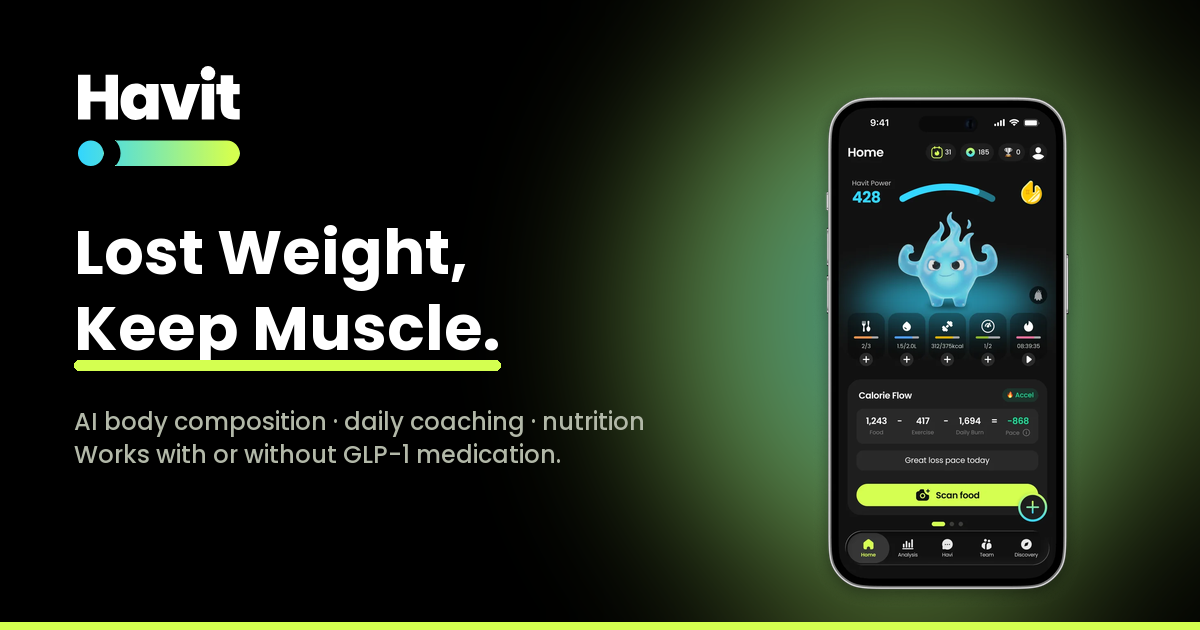
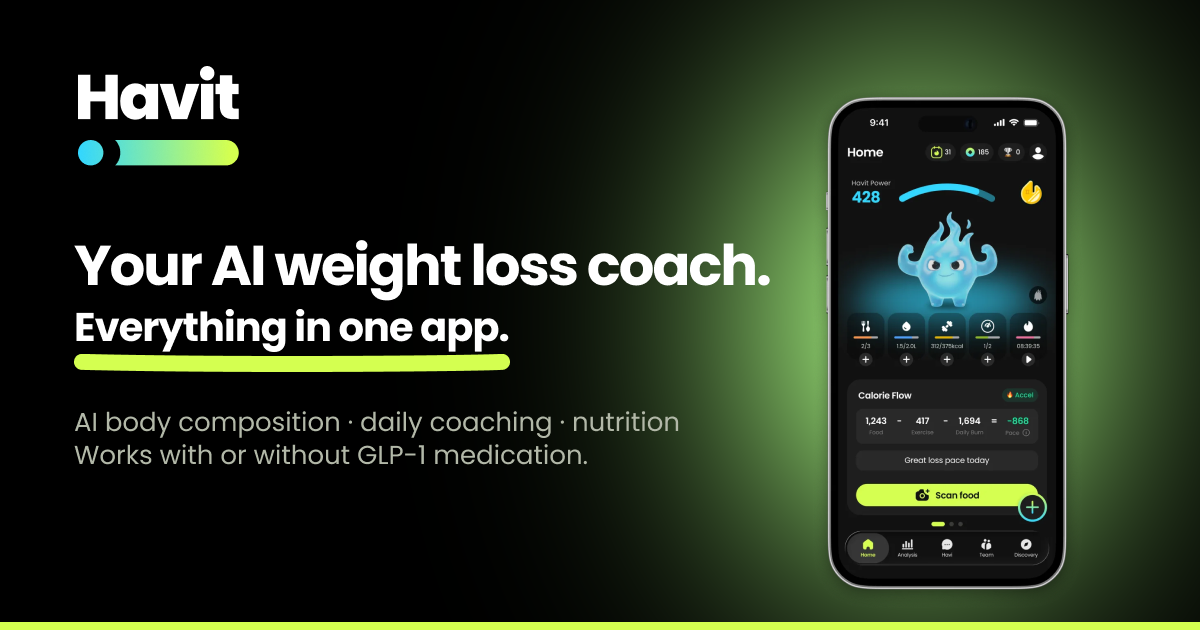
design: OG 카드·문구를 홈페이지 영문 OG 와 다시 맞춘다
이 파일의 OG 블록에는 "홈페이지 기본(영문) OG 와 같은 문구·이미지로
맞춘다" 는 계약이 주석으로 적혀 있는데, www.aihavit.com 이 V4 히어로
카피로 넘어간 뒤 이쪽만 옛 문구에 남아 있었다.

- og:image: `Lost Weight, / Keep Muscle.` 가 박힌 카드였다. www 의
  og-card.png 와 바이트 단위로 같은 파일(md5 4bf42a7738d7)이었고,
  같은 교체본으로 바꾼다. 헤드라인은 현재 히어로 H1 그대로
  `Your AI weight loss coach. / Everything in one app.` 다.
  1200×630 유지, 213KB(기존 229KB).
- og:title: `… | Lose Weight, Keep Muscle` → `… | Everything in One App`.
  www 영문 루트의 og:title 과 같은 문자열이다.
- og:description: www 영문 루트와 같은 문자열로 교체. 12주 임상
  수치(5%+ 감량 4배)가 들어간 쪽이다.

og:url·og:type·twitter:card·noindex 는 그대로다.

Figma 원본: https://www.figma.com/design/q2lX8odHZwFTyjq8RgV6hL

Claude-Session: https://claude.ai/code/session_01JXrpq3yntNPLzSbVSoMi36

diff --git a/index.html b/index.html
@@ -18,8 +18,8 @@
     (GitHub Pages 정적 호스팅 + 크롤러는 언어 헤더를 거의 안 보낸다). 홈페이지 기본(영문)
     OG 와 같은 문구·이미지로 맞춘다.
   -->
-  <meta property="og:title" content="HAVIT — AI Weight Loss Coach | Lose Weight, Keep Muscle" />
-  <meta property="og:description" content="Meet HAVI, the AI weight loss coach that tells you what to do today. Photo food scan, body composition estimates, and GLP-1 support in one app." />
+  <meta property="og:title" content="HAVIT — AI Weight Loss Coach | Everything in One App" />
+  <meta property="og:description" content="HAVI reads your meals, weight, body composition and sleep, then tells you one thing to do today. 4× more likely to lose 5%+ in a 12-week study." />
   <meta property="og:image" content="https://app.aihavit.com/og-image.png" />
   <meta property="og:image:width" content="1200" />
   <meta property="og:image:height" content="630" />
